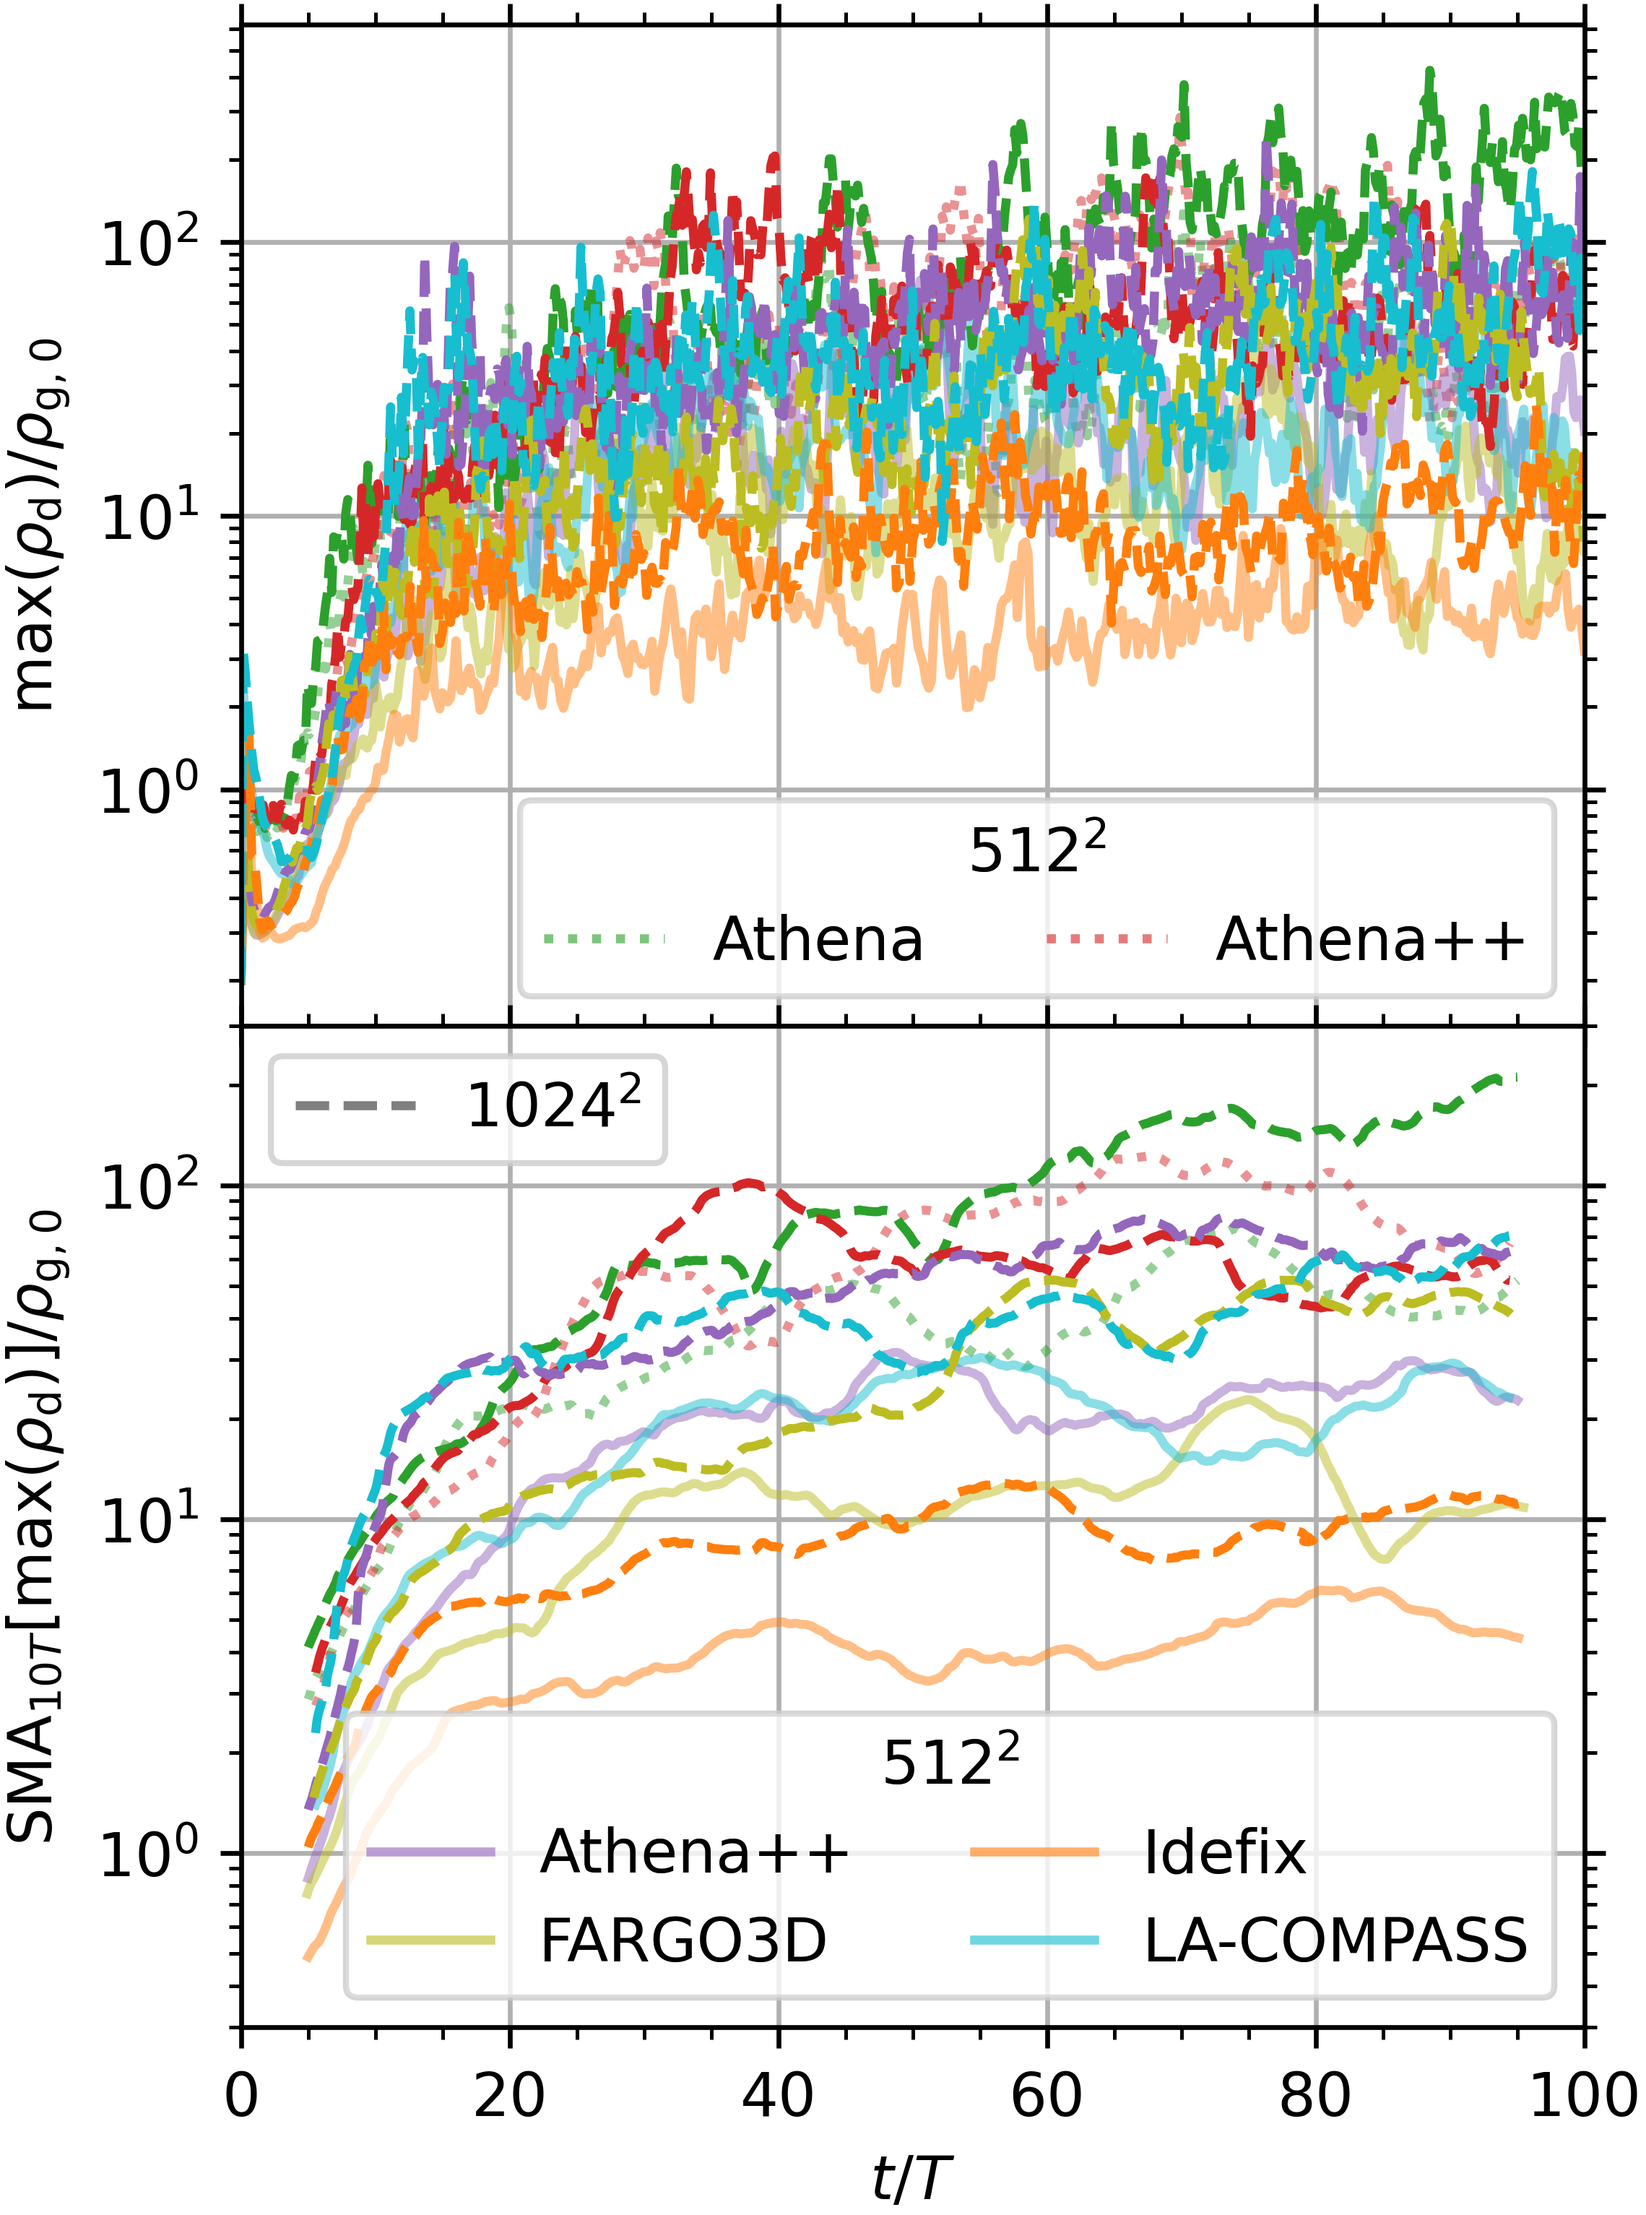
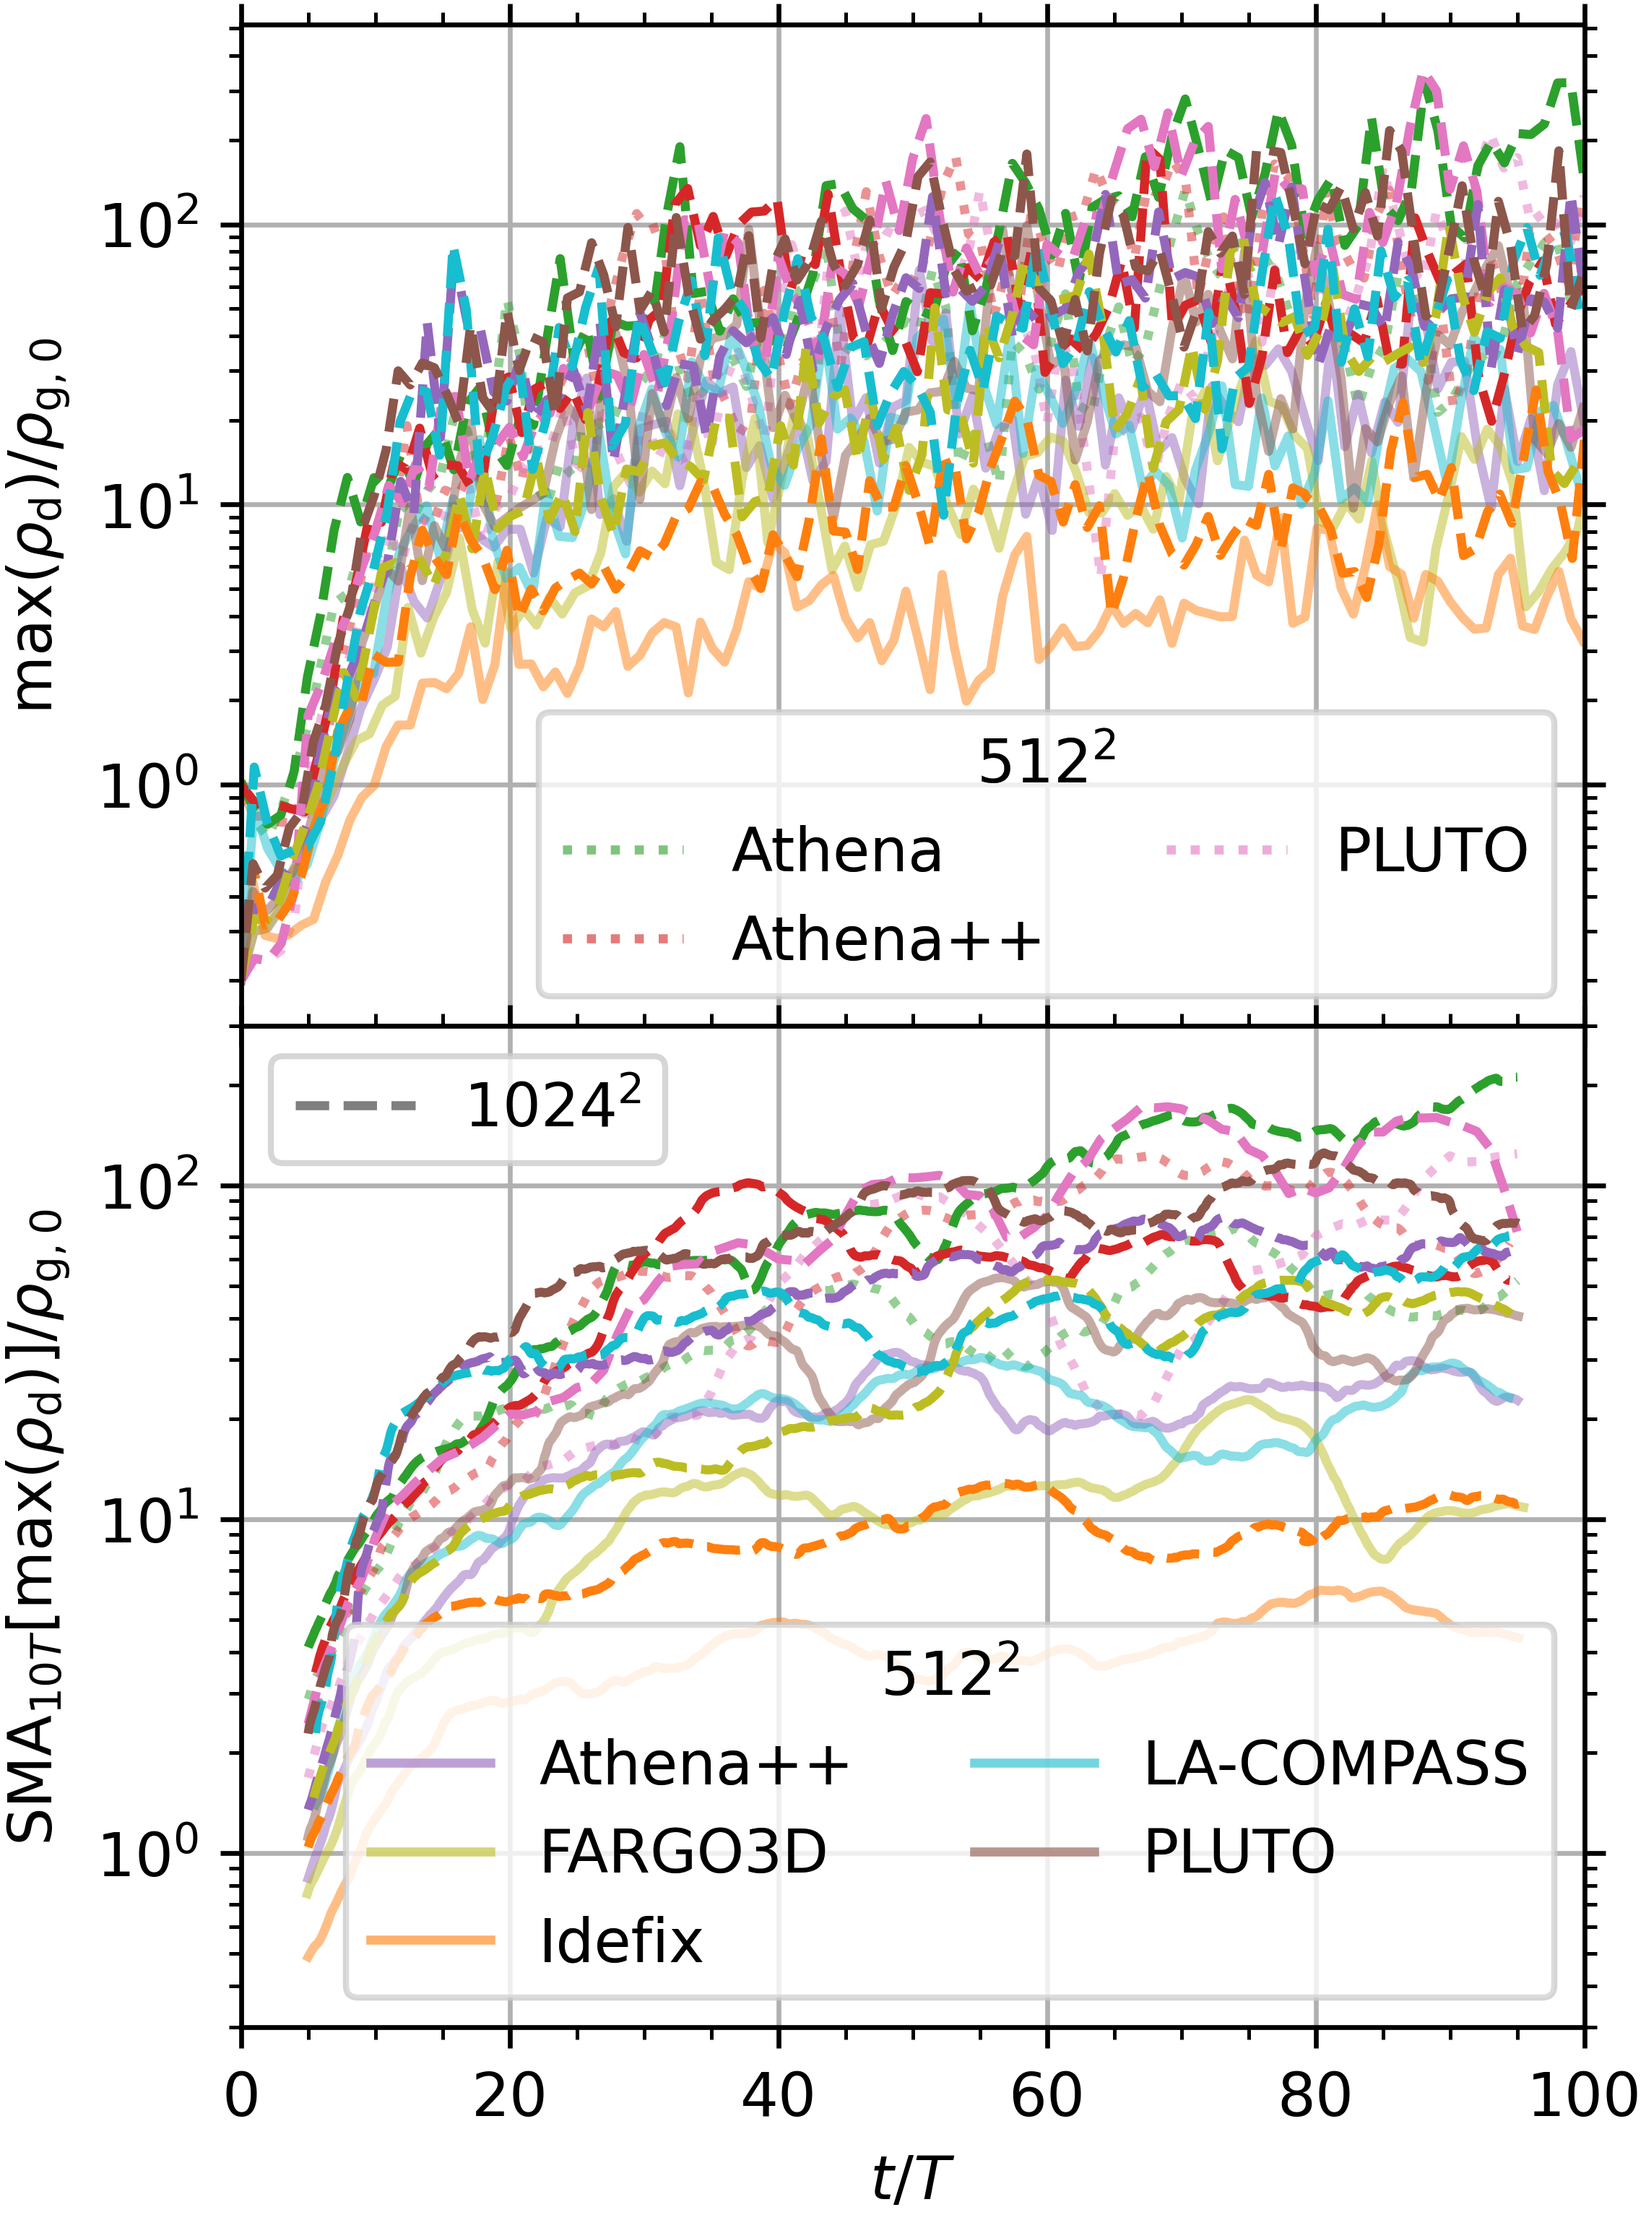
Add PLUTO runs

diff --git a/_research/05-code-comparison.md b/_research/05-code-comparison.md
@@ -44,7 +44,7 @@ Radial $$x$$ and vertical $$z$$ coordinates are in units of the vertical gas sca
 ![](/assets/images/research/code-comparison/si/BA-512_time_series.png)
 **Figure 2.** Maximum dust densities $$\max(\rho_\mathrm{d})$$ as a function of time for Problem BA at a grid resolution of 512².
 The units for density and time are the initially uniform gas density $$\rho_\mathrm{g,0}$$ and the local orbital period $$T$$, respectively.
-The top panel uses a similar cadence for each time series with an average of 630 samples per code.
+The top panel uses a similar cadence for each time series.
 The bottom panel shows the simple moving average $$\mathrm{SMA}$$ with a sampling window of $$10T$$.
 Dotted lines show codes that implement an average of $$n_\mathrm{p} = 1$$ Lagrangian particle per grid cell, solid lines show codes with pressureless dust fluids, and line colors show different codes.
 
@@ -62,7 +62,6 @@ Dotted lines show codes that implement an average of $$n_\mathrm{p} = 1$$ Lagran
 
 ![](/assets/images/research/code-comparison/si/BA-512-np9_time_series.png)
 **Figure 5.** Similar to Figure [2](#higher-particle-resolution:~:text=.-,Figure%202.,-Maximum%20dust%20densities) except comparing only Lagrangian-particle implementations with dashed lines showing an average of $$n_\mathrm{p} = 9$$ particles per grid cell.
-The top panel uses a similar cadence for each time series with an average of 1000 samples per code.
 
 ![](/assets/images/research/code-comparison/si/BA-512-np9_CDF.png)
 **Figure 6.** Similar to Figure [3](#higher-particle-resolution:~:text=show%20different%20codes.-,Figure%203.,-Time%2Daveraged%20cumulative) except comparing only Lagrangian-particle implementations with dashed lines showing an average $$n_\mathrm{p} = 9$$ particles per grid cell.
@@ -74,7 +73,6 @@ The top panel uses a similar cadence for each time series with an average of 100
 
 ![](/assets/images/research/code-comparison/si/BA-1024_time_series.png)
 **Figure 8.** Similar to Figure [2](#higher-particle-resolution:~:text=.-,Figure%202.,-Maximum%20dust%20densities) but with dashed lines showing grid resolutions of 1024².
-The top panel uses a similar cadence for each time series with an average of 600 samples per code.
 
 ![](/assets/images/research/code-comparison/si/BA-1024_CDF.png)
 **Figure 9.** Similar to Figure [3](#higher-particle-resolution:~:text=show%20different%20codes.-,Figure%203.,-Time%2Daveraged%20cumulative) but with dashed lines showing grid resolutions of 1024².
